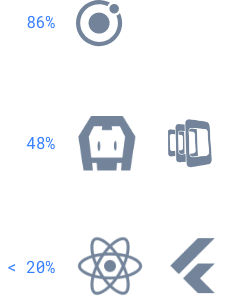
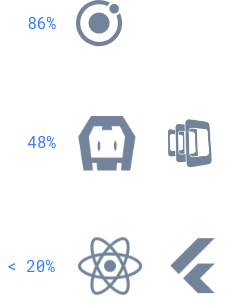
misk tweaks

diff --git a/server/pages/survey/2019.html b/server/pages/survey/2019.html
@@ -42,9 +42,10 @@
 <main>
   <section id="introduction" class="center">
     <div class="container">
-      <h2>2019: A year of growth.</h2>
+      <h2>The Age of the Web Developer</h2>
       <p class="lg">Welcome to the 2019 Ionic Developer Survey results! For the third year in a row, we heard from thousands of community members who shared their stories and perspectives with us.</p>
-      <p class="lg">The theme of this year’s survey is the “Age of the Web Developer”. Web Developers now control every layer of the stack - from frontend to backend - across all deployment targets—mobile and desktop included. And as more and more web-centric tools, libraries, and frameworks emerge, their power and influence will only grow.Read on for more analysis, along with the usual list of most popular tools & services.</p>
+      <p class="lg">The theme of this year’s survey is the “Age of the Web Developer”. Web Developers now control every layer of the stack - from frontend to backend - across all deployment targets—mobile and desktop included. And as more and more web-centric tools, libraries, and frameworks emerge, their power and influence will only grow.</p>
+      <p class="lg">Read on for more analysis, along with the usual list of most popular tools & services.</p>
     </div>
   </section>
 
@@ -81,8 +82,8 @@
           <h4>The top mobile dev tools</h4>
           <p>The mobile tools market remained incredibly steady since last year’s survey. The results show three clear tiers of popularity among Ionic developers in the mobile development stack. Once again, Ionic (86%) was the top tier, followed by Cordova/PhoneGap (48%). The third tier was made up of React Native (16%) and Flutter (12%), with other tools falling in the single digits. Of course, given that this survey is taken largely from the Ionic community, it’s not surprising to see the results so heavily skewed towards Ionic.</p>
           <figure>
-            <img src="/img/survey/top-tools@2x.png"
-              srcset="/img/survey/top-tools.png 1x, /img/survey/top-tools@2x.png 2x"
+            <img src="/img/survey/top-tools@2x.png?v2"
+              srcset="/img/survey/top-tools.png?v2 1x, /img/survey/top-tools@2x.png?v2 2x"
               alt="1st: Ionic - 2nd: Cordova, Phonegap - 3rd: React Native, Flutter" />
           </figure>
         </div>
@@ -190,40 +191,40 @@
     </div>
   </section>
 
-  <div id="dark-sections">
-    <section id="backend" class="grey">
-      <div class="container">
-        <h2>Continuous delivery</h2>
-        <div class="cols">
-          <div class="col">
-            <h4>Top CI/CD tools</h4>
-            <p>Now that we’ve seen how many apps respondents are responsible for, let’s look at how they’re managing their processes. DevOps and continuous integration and continuous delivery (CI/CD) tools to streamline software development, testing, and deployment are no longer new. Developers know that using a CI/CD tool of some kind is critical to keeping your release cadence where it needs to be--whether it’s weekly, daily, or more.</p>
-          </div>
-          <div class="col">
-            <h4>Top 3 General Purpose CI/CD tools:</h4>
-            <figure>
-              <svg xmlns="http://www.w3.org/2000/svg" width="411" height="87" viewBox="0 0 411 87"><g transform="translate(-780 -8715)"><text transform="translate(780 8715)" fill="#3780ff" font-size="12" font-family="RobotoMono-Bold, Roboto Mono" font-weight="700"><tspan x="0" y="13">22%</tspan></text><text transform="translate(780 8749)" fill="#3780ff" font-size="12" font-family="RobotoMono-Bold, Roboto Mono" font-weight="700"><tspan x="0" y="13">20%</tspan></text><text transform="translate(780 8783)" fill="#3780ff" font-size="12" font-family="RobotoMono-Bold, Roboto Mono" font-weight="700"><tspan x="0" y="13">18%</tspan></text><text transform="translate(1068 8716)" fill="#3780ff" font-size="12" font-family="RobotoMono-Regular, Roboto Mono" letter-spacing="-0.02em"><tspan x="0" y="13">GitLab CI</tspan></text><text transform="translate(1068 8750)" fill="#3780ff" font-size="12" font-family="RobotoMono-Regular, Roboto Mono" letter-spacing="-0.02em"><tspan x="0" y="13">Jenkins/CloudBees</tspan></text><text transform="translate(1068 8784)" fill="#3780ff" font-size="12" font-family="RobotoMono-Regular, Roboto Mono" letter-spacing="-0.02em"><tspan x="0" y="13">GitHub Actions</tspan></text><line x2="248" transform="translate(809.5 8729.5)" fill="none" stroke="#b2becd" stroke-width="0.5" stroke-dasharray="4"/><line x2="56" transform="translate(809.5 8724.5)" fill="none" stroke="#3780ff" stroke-width="11"/><line x2="248" transform="translate(809.5 8763.5)" fill="none" stroke="#b2becd" stroke-width="0.5" stroke-dasharray="4"/><line x2="47" transform="translate(809.5 8758.5)" fill="none" stroke="#3780ff" stroke-width="11"/><line x2="248" transform="translate(809.5 8797.5)" fill="none" stroke="#b2becd" stroke-width="0.5" stroke-dasharray="4"/><line x2="36" transform="translate(809.5 8792.5)" fill="none" stroke="#3780ff" stroke-width="11"/></g></svg>
-            </figure>
-            <h4>Top 3 Mobile CI/CD tools:</h4>
-            <figure>
-              <svg xmlns="http://www.w3.org/2000/svg" width="439" height="87" viewBox="0 0 439 87"><g transform="translate(-780 -8897)"><text transform="translate(780 8897)" fill="#3780ff" font-size="12" font-family="RobotoMono-Bold, Roboto Mono" font-weight="700"><tspan x="0" y="13">12%</tspan></text><text transform="translate(780 8931)" fill="#3780ff" font-size="12" font-family="RobotoMono-Bold, Roboto Mono" font-weight="700"><tspan x="0" y="13">05%</tspan></text><text transform="translate(780 8965)" fill="#3780ff" font-size="12" font-family="RobotoMono-Bold, Roboto Mono" font-weight="700"><tspan x="0" y="13">01%</tspan></text><text transform="translate(1068 8898)" fill="#3780ff" font-size="12" font-family="RobotoMono-Regular, Roboto Mono" letter-spacing="-0.02em"><tspan x="0" y="13">Ionic Appflow</tspan></text><text transform="translate(1068 8932)" fill="#3780ff" font-size="12" font-family="RobotoMono-Regular, Roboto Mono" letter-spacing="-0.02em"><tspan x="0" y="13">Microsoft App Center</tspan></text><text transform="translate(1068 8966)" fill="#3780ff" font-size="12" font-family="RobotoMono-Regular, Roboto Mono" letter-spacing="-0.02em"><tspan x="0" y="13">Buddy Build</tspan></text><line x2="248" transform="translate(809.5 8911.5)" fill="none" stroke="#b2becd" stroke-width="0.5" stroke-dasharray="4"/><line x2="36" transform="translate(809.5 8906.5)" fill="none" stroke="#3780ff" stroke-width="11"/><line x2="248" transform="translate(809.5 8945.5)" fill="none" stroke="#b2becd" stroke-width="0.5" stroke-dasharray="4"/><line x2="15" transform="translate(809.5 8940.5)" fill="none" stroke="#3780ff" stroke-width="11"/><line x2="248" transform="translate(809.5 8979.5)" fill="none" stroke="#b2becd" stroke-width="0.5" stroke-dasharray="4"/><line x2="8" transform="translate(809.5 8974.5)" fill="none" stroke="#3780ff" stroke-width="11"/></g></svg>
-            </figure>
-          </div>
+  <section id="backend" class="grey">
+    <div class="container">
+      <h2>Continuous delivery</h2>
+      <div class="cols">
+        <div class="col">
+          <h4>Top CI/CD tools</h4>
+          <p>Now that we’ve seen how many apps respondents are responsible for, let’s look at how they’re managing their processes. DevOps and continuous integration and continuous delivery (CI/CD) tools to streamline software development, testing, and deployment are no longer new. Developers know that using a CI/CD tool of some kind is critical to keeping your release cadence where it needs to be--whether it’s weekly, daily, or more.</p>
         </div>
-        <h4>How developers are using CI/CD tools</h4>
-        <p class="highlight">While over 75% of professionals surveyed are using a CI/CD tool, that still leaves almost a quarter that aren’t. The release cadence for these companies shows how valuable CI/CD tools can be in today’s environment.</p>
-        <p class="highlight">Respondents using a CI/CD tool were <strong>70% more likely to release multiple times per week or more</strong>, and 42% less likely to release quarterly or less.</p>
-        <div class="spacer"></div>
-        <h4>How often do you release apps? (release cadence)</h4>
-        <figure>
-          <img src="/img/survey/release-frequency@2x.png"
-            srcset="/img/survey/release-frequency.png 1x, /img/survey/release-frequency@2x.png 2x"
-            alt="Chart showing that those who use CI/CD tools tend to release more frequently" />
-        </figure>
-        <p class="highlight">This signals that more people in the React and Vue communities are trying Ionic, and perhaps some existing Angular developers are giving other frameworks a try, as well.</p>
+        <div class="col">
+          <h4>Top 3 General Purpose CI/CD tools:</h4>
+          <figure>
+            <svg xmlns="http://www.w3.org/2000/svg" width="411" height="87" viewBox="0 0 411 87"><g transform="translate(-780 -8715)"><text transform="translate(780 8715)" fill="#3780ff" font-size="12" font-family="RobotoMono-Bold, Roboto Mono" font-weight="700"><tspan x="0" y="13">22%</tspan></text><text transform="translate(780 8749)" fill="#3780ff" font-size="12" font-family="RobotoMono-Bold, Roboto Mono" font-weight="700"><tspan x="0" y="13">20%</tspan></text><text transform="translate(780 8783)" fill="#3780ff" font-size="12" font-family="RobotoMono-Bold, Roboto Mono" font-weight="700"><tspan x="0" y="13">18%</tspan></text><text transform="translate(1068 8716)" fill="#3780ff" font-size="12" font-family="RobotoMono-Regular, Roboto Mono" letter-spacing="-0.02em"><tspan x="0" y="13">GitLab CI</tspan></text><text transform="translate(1068 8750)" fill="#3780ff" font-size="12" font-family="RobotoMono-Regular, Roboto Mono" letter-spacing="-0.02em"><tspan x="0" y="13">Jenkins/CloudBees</tspan></text><text transform="translate(1068 8784)" fill="#3780ff" font-size="12" font-family="RobotoMono-Regular, Roboto Mono" letter-spacing="-0.02em"><tspan x="0" y="13">GitHub Actions</tspan></text><line x2="248" transform="translate(809.5 8729.5)" fill="none" stroke="#b2becd" stroke-width="0.5" stroke-dasharray="4"/><line x2="56" transform="translate(809.5 8724.5)" fill="none" stroke="#3780ff" stroke-width="11"/><line x2="248" transform="translate(809.5 8763.5)" fill="none" stroke="#b2becd" stroke-width="0.5" stroke-dasharray="4"/><line x2="47" transform="translate(809.5 8758.5)" fill="none" stroke="#3780ff" stroke-width="11"/><line x2="248" transform="translate(809.5 8797.5)" fill="none" stroke="#b2becd" stroke-width="0.5" stroke-dasharray="4"/><line x2="36" transform="translate(809.5 8792.5)" fill="none" stroke="#3780ff" stroke-width="11"/></g></svg>
+          </figure>
+          <h4>Top 3 Mobile CI/CD tools:</h4>
+          <figure>
+            <svg xmlns="http://www.w3.org/2000/svg" width="439" height="87" viewBox="0 0 439 87"><g transform="translate(-780 -8897)"><text transform="translate(780 8897)" fill="#3780ff" font-size="12" font-family="RobotoMono-Bold, Roboto Mono" font-weight="700"><tspan x="0" y="13">12%</tspan></text><text transform="translate(780 8931)" fill="#3780ff" font-size="12" font-family="RobotoMono-Bold, Roboto Mono" font-weight="700"><tspan x="0" y="13">05%</tspan></text><text transform="translate(780 8965)" fill="#3780ff" font-size="12" font-family="RobotoMono-Bold, Roboto Mono" font-weight="700"><tspan x="0" y="13">01%</tspan></text><text transform="translate(1068 8898)" fill="#3780ff" font-size="12" font-family="RobotoMono-Regular, Roboto Mono" letter-spacing="-0.02em"><tspan x="0" y="13">Ionic Appflow</tspan></text><text transform="translate(1068 8932)" fill="#3780ff" font-size="12" font-family="RobotoMono-Regular, Roboto Mono" letter-spacing="-0.02em"><tspan x="0" y="13">Microsoft App Center</tspan></text><text transform="translate(1068 8966)" fill="#3780ff" font-size="12" font-family="RobotoMono-Regular, Roboto Mono" letter-spacing="-0.02em"><tspan x="0" y="13">Buddy Build</tspan></text><line x2="248" transform="translate(809.5 8911.5)" fill="none" stroke="#b2becd" stroke-width="0.5" stroke-dasharray="4"/><line x2="36" transform="translate(809.5 8906.5)" fill="none" stroke="#3780ff" stroke-width="11"/><line x2="248" transform="translate(809.5 8945.5)" fill="none" stroke="#b2becd" stroke-width="0.5" stroke-dasharray="4"/><line x2="15" transform="translate(809.5 8940.5)" fill="none" stroke="#3780ff" stroke-width="11"/><line x2="248" transform="translate(809.5 8979.5)" fill="none" stroke="#b2becd" stroke-width="0.5" stroke-dasharray="4"/><line x2="8" transform="translate(809.5 8974.5)" fill="none" stroke="#3780ff" stroke-width="11"/></g></svg>
+          </figure>
+        </div>
       </div>
-    </section>
+      <h4>How developers are using CI/CD tools</h4>
+      <p class="highlight">While over 75% of professionals surveyed are using a CI/CD tool, that still leaves almost a quarter that aren’t. The release cadence for these companies shows how valuable CI/CD tools can be in today’s environment.</p>
+      <p class="highlight">Respondents using a CI/CD tool were <strong>70% more likely to release multiple times per week or more</strong>, and 42% less likely to release quarterly or less.</p>
+      <div class="spacer"></div>
+      <h4>How often do you release apps? (release cadence)</h4>
+      <figure>
+        <img src="/img/survey/release-frequency@2x.png"
+          srcset="/img/survey/release-frequency.png 1x, /img/survey/release-frequency@2x.png 2x"
+          alt="Chart showing that those who use CI/CD tools tend to release more frequently" />
+      </figure>
+      <p class="highlight">This signals that more people in the React and Vue communities are trying Ionic, and perhaps some existing Angular developers are giving other frameworks a try, as well.</p>
+    </div>
+  </section>
   
+  <div id="dark-sections">
     <section id="bottom-line" class="dark center">
       <div class="container">
         <h2>The bottom line</h2>
@@ -702,15 +703,27 @@ const stickyWatcher = () => {
     ([e]) => $nav.classList.toggle('isSticky', e.intersectionRatio < 1),
     {threshold: [1]}
   );
+  $scrollSpy = document.getElementById('scroll-spy');
+  observer.observe($scrollSpy);
 
-  observer.observe(document.getElementById('scroll-spy'));
-
-  {# const observer = new IntersectionObserver( 
-    ([e]) => $nav.classList.toggle('isDark', e.intersectionRatio < 1),
-    {threshold: [1]}
+  const darknessObserver = new IntersectionObserver( 
+    ([e]) => {
+      console.log(e)
+      return $nav.classList.toggle('isDark', e.isIntersecting)
+    },
+    {rootMargin: '-50px 0px -93%'}
   );
+  const $darkSections = document.getElementById('dark-sections')
+  darknessObserver.observe($darkSections);
 
-  observer.observe(document.getElementById('dark-sections')); #}
+  // check initial scroll positions
+  const scrollPos = document.body.scrollTop;
+  if (scrollPos > $scrollSpy.offsetTop) {
+    $nav.classList.add('isSticky')
+  }
+  if (scrollPos > $darkSections.offsetTop) {
+    $nav.classList.add('isDark')
+  }
 };
 stickyWatcher();
 
@@ -721,6 +734,7 @@ $('body').scrollspy({
 $(window).on('activate.bs.scrollspy', function (e) {
   currentSection = $("a[href^='#']", e.target).attr("href");
   history.replaceState({}, "Ionic Framework - Survey-2017", currentSection);
+
 });
 
 

diff --git a/assets/stencil/components/bar-chart/bar-chart.scss b/assets/stencil/components/bar-chart/bar-chart.scss
@@ -5,55 +5,85 @@ bar-chart {
 
   // important necessary to override attr vals
   path.c3-bar {
-    fill: url(#blue-gradient) !important;
-    stroke: url(#blue-gradient) !important;
+    &:nth-child(1),
+    &:nth-child(2) {
+      fill: url(#blue-gradient) !important;
+      stroke: url(#blue-gradient) !important;
+    }
   }
 
   text.c3-text {
-    fill: #3780FF !important;
+    &:nth-child(1),
+    &:nth-child(2) {
+      fill: #3780FF !important;
+    }
   }
 
   &[color="pink"] {
     path.c3-bar {
-      fill: url(#pink-gradient) !important;
-      stroke: url(#pink-gradient) !important;
+      &:nth-child(1),
+      &:nth-child(2) {
+        fill: url(#pink-gradient) !important;
+        stroke: url(#pink-gradient) !important;
+      }
     }
 
     text.c3-text {
-      fill: #F37BAB !important;
+      &:nth-child(1),
+      &:nth-child(2) {
+        fill: #F37BAB !important;
+      }
     }
   }
 
   &[color="blue"] {
     path.c3-bar {
-      fill: url(#blue-gradient) !important;
-      stroke: url(#blue-gradient) !important;
+      &:nth-child(1),
+      &:nth-child(2) {
+        fill: url(#blue-gradient) !important;
+        stroke: url(#blue-gradient) !important;
+      }
     }
 
     text.c3-text {
-      fill: #3780FF !important;
+      &:nth-child(1),
+      &:nth-child(2) {
+        fill: #3780FF !important;
+      }
     }
   }
 
   &[color="yellow"] {
     path.c3-bar {
-      fill: url(#yellow-gradient) !important;
-      stroke: url(#yellow-gradient) !important;
+      &:nth-child(1),
+      &:nth-child(2) {
+        fill: url(#yellow-gradient) !important;
+        stroke: url(#yellow-gradient) !important;
+      }
     }
 
     text.c3-text {
-      fill: #F7D443 !important;
+      &:nth-child(1),
+      &:nth-child(2) {
+        fill: #F7D443 !important;
+      }
     }
   }
 
   &[color="green"] {
     path.c3-bar {
-      fill: url(#green-gradient) !important;
-      stroke: url(#green-gradient) !important;
+      &:nth-child(1),
+      &:nth-child(2) {
+        fill: url(#green-gradient) !important;
+        stroke: url(#green-gradient) !important;
+      }
     }
 
     text.c3-text {
-      fill: #3EED5B !important;
+      &:nth-child(1),
+      &:nth-child(2) {
+        fill: #3EED5B !important;
+      }
     }
   }
 }

diff --git a/assets/scss/pages/survey/2019.scss b/assets/scss/pages/survey/2019.scss
@@ -56,39 +56,38 @@ $c-blue-400: #3780FF;
 }
 
 #cubes {
-
   li {
     list-style: none;
     position: absolute;
     
     &:nth-child(1) {
       top: 22px;
-      left: -225px;
+      left: -336px;
     }
 
     &:nth-child(2) {
       top: 58px;
-      right: -86px;
+      right: -196px;
     }
 
     &:nth-child(3) {
       top: 337px;
-      right: -145px;
+      right: -254px;
     }
 
     &:nth-child(4) {
       top: 237px;
-      left: -12px;
+      left: -120px;
     }
 
     &:nth-child(5) {
       top: 30px;
-      right: 192px;
+      right: 92px;
     }
 
     &:nth-child(6) {
       top: 309px;
-      left: 78px;
+      left: -34px;
     }
   }
 }
@@ -96,10 +95,11 @@ $c-blue-400: #3780FF;
 #survey-2019-nav {
   position: sticky;
   z-index: 1;
-  top: -1px;
+  top: -2px;
   background: white;
   transition: .2s box-shadow, .2s border-color;
   border-bottom: 1px solid $c-grey-300;
+  transition: .3s background-color;
 
   ul {
     display: flex;
@@ -138,7 +138,9 @@ $c-blue-400: #3780FF;
   }
 
   li.active a,
-  a:hover {
+  a:hover,
+  a:active,
+  a:focus {
     color: $c-blue-400;
     background: transparent;
   }
@@ -161,8 +163,8 @@ $c-blue-400: #3780FF;
     background: black;
 
     @supports (backdrop-filter: blur(5px)) {
-      background: rgba(black, .8);
-      backdrop-filter: blur(30px);
+      background: rgba(black, .7);
+      backdrop-filter: blur(20px);
     }
   }
 }

diff --git a/assets/stencil/components/bar-chart/bar-chart.tsx b/assets/stencil/components/bar-chart/bar-chart.tsx
@@ -1,4 +1,4 @@
-import { Component, Element, Prop, State, h } from '@stencil/core';
+import { Component, Element, Prop } from '@stencil/core';
 import c3 from 'c3';
 
 @Component({
@@ -14,6 +14,7 @@ export class BarChart {
   @Element() el;
 
   data = {};
+  defaultColor = '#73849A';
   barChartGradients = `
     <svg id="bar-chart-gradients" width="0" height="0" version="1.1" xmlns="http://www.w3.org/2000/svg">
       <defs>
@@ -68,7 +69,7 @@ export class BarChart {
           format: function(v) { return v + '%'; }
         },
         colors: {
-          data1: this.color
+          data1: this.defaultColor
         },
       },
       padding: {
